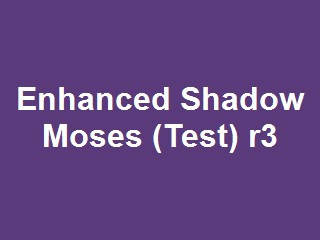
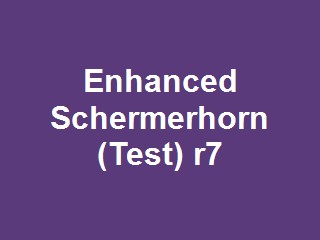
require MapsEd and .uas files when publishing, drop Music

Changed region(s): [[0.0312, 0.2625, 0.9688, 0.7292]]

diff --git a/README.md b/README.md
@@ -13,8 +13,14 @@ the map search dialog) lists every map here that a player does not have, and dow
 
 ## Adding a map or a new revision
 
-1. Put the map's packages in a folder: `<Code>.sdc`, `<Code>-i.utc`, and any textures, static meshes, sounds
-   or animations it needs.
+1. Put the map's files in a folder laid out like the game's `Packages` folder:
+   - `Maps\<Code>.sdc`, the map;
+   - `MapsEd\<Code>.sdc`, the editor's copy of it, so others can open it;
+   - `Sounds\<Code>.uas`, its sound bank, with at least the win, lose and objective sounds;
+   - `Textures\<Code>-i.utc`, and any textures (`Textures\*.utx`), static meshes (`StaticMeshes\*.usx`),
+     sounds (`Sounds\*.uax`) or animations (`Animations\*.ukx`) it needs.
+
+   The first three are required.
 2. For a new map, write `maps/<Code>/map.json`:
    ```json
    {
